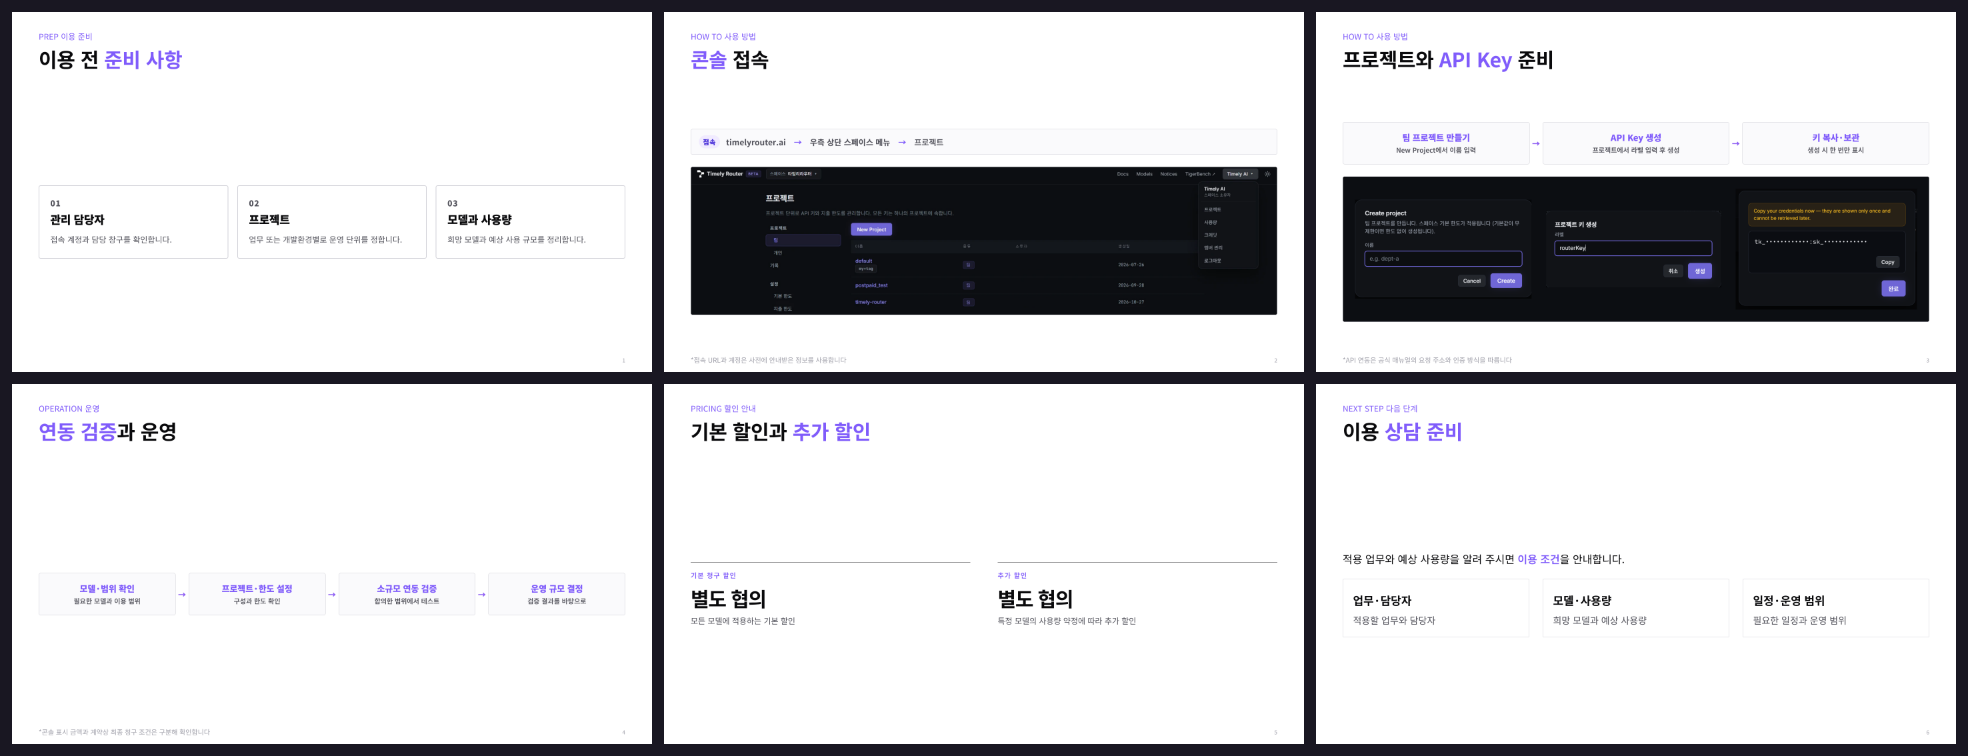
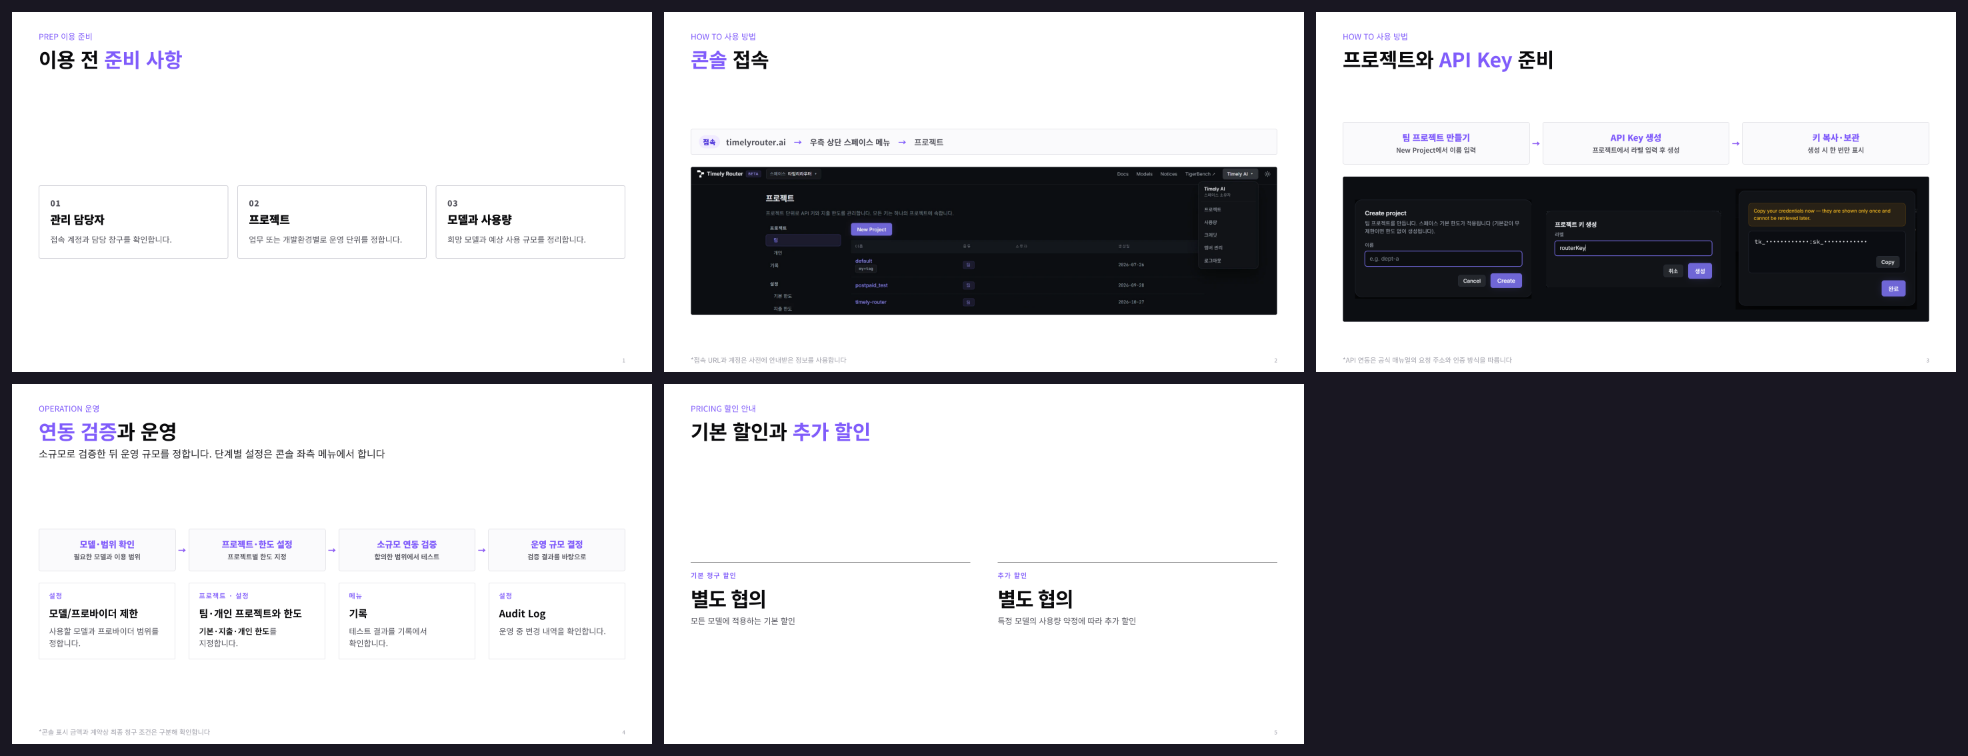
Drop consultation slide; enrich ops slide with console menu mapping
Claude-Session: https://claude.ai/code/session_011MYQVH7VdXypSLypRUhG78

diff --git a/decks/timely-router-sk/deck.purple.html b/decks/timely-router-sk/deck.purple.html
@@ -568,17 +568,24 @@ body { font-family: var(--deck-font); -webkit-font-smoothing: antialiased; }
 </div>
 </section>
 
-<!-- 원본 05 · 연동 검증과 운영 -->
+<!-- 원본 05 · 연동 검증과 운영 (콘솔 메뉴로 보강) -->
 <section>
 <div class="slide body">
   <div class="eyebrow">OPERATION 운영</div>
   <h2 class="title"><span class="hl">연동 검증</span>과 운영</h2>
+  <div class="sub">소규모로 검증한 뒤 운영 규모를 정합니다. 단계별 설정은 콘솔 좌측 메뉴에서 합니다</div>
   <div class="well">
     <div class="pipeline">
       <div class="step"><b>모델·범위 확인</b><span>필요한 모델과 이용 범위</span></div><span class="arrow">→</span>
-      <div class="step"><b>프로젝트·한도 설정</b><span>구성과 한도 확인</span></div><span class="arrow">→</span>
+      <div class="step"><b>프로젝트·한도 설정</b><span>프로젝트별 한도 지정</span></div><span class="arrow">→</span>
       <div class="step"><b>소규모 연동 검증</b><span>합의한 범위에서 테스트</span></div><span class="arrow">→</span>
       <div class="step"><b>운영 규모 결정</b><span>검증 결과를 바탕으로</span></div>
+    </div>
+    <div class="cards four">
+      <div class="card"><div class="kicker">설정</div><h4>모델/프로바이더 제한</h4><p>사용할 모델과 프로바이더 범위를 정합니다.</p></div>
+      <div class="card"><div class="kicker">프로젝트 · 설정</div><h4>팀·개인 프로젝트와 한도</h4><p><b>기본·지출·개인 한도</b>를 지정합니다.</p></div>
+      <div class="card"><div class="kicker">메뉴</div><h4>기록</h4><p>테스트 결과를 기록에서 확인합니다.</p></div>
+      <div class="card"><div class="kicker">설정</div><h4>Audit Log</h4><p>운영 중 변경 내역을 확인합니다.</p></div>
     </div>
   </div>
   <div class="foot">*콘솔 표시 금액과 계약상 최종 청구 조건은 구분해 확인합니다</div>
@@ -595,23 +602,6 @@ body { font-family: var(--deck-font); -webkit-font-smoothing: antialiased; }
     <div class="stat-tiles two">
       <div class="stat-tile"><div class="label">기본 청구 할인</div><div class="value">별도 협의</div><p>모든 모델에 적용하는 기본 할인</p></div>
       <div class="stat-tile"><div class="label">추가 할인</div><div class="value">별도 협의</div><p>특정 모델의 사용량 약정에 따라 추가 할인</p></div>
-    </div>
-  </div>
-  <div class="page"></div>
-</div>
-</section>
-
-<!-- 원본 07 · 이용 상담 준비 -->
-<section>
-<div class="slide body">
-  <div class="eyebrow">NEXT STEP 다음 단계</div>
-  <h2 class="title">이용 <span class="hl">상담 준비</span></h2>
-  <div class="well">
-    <p class="lead">적용 업무와 예상 사용량을 알려 주시면 <b>이용 조건</b>을 안내합니다.</p>
-    <div class="cards">
-      <div class="card"><h4>업무·담당자</h4><p>적용할 업무와 담당자</p></div>
-      <div class="card"><h4>모델·사용량</h4><p>희망 모델과 예상 사용량</p></div>
-      <div class="card"><h4>일정·운영 범위</h4><p>필요한 일정과 운영 범위</p></div>
     </div>
   </div>
   <div class="page"></div>

diff --git a/decks/timely-router-sk/deck.html b/decks/timely-router-sk/deck.html
@@ -57,17 +57,24 @@
 </div>
 </section>
 
-<!-- 원본 05 · 연동 검증과 운영 -->
+<!-- 원본 05 · 연동 검증과 운영 (콘솔 메뉴로 보강) -->
 <section>
 <div class="slide body">
   <div class="eyebrow">OPERATION 운영</div>
   <h2 class="title"><span class="hl">연동 검증</span>과 운영</h2>
+  <div class="sub">소규모로 검증한 뒤 운영 규모를 정합니다. 단계별 설정은 콘솔 좌측 메뉴에서 합니다</div>
   <div class="well">
     <div class="pipeline">
       <div class="step"><b>모델·범위 확인</b><span>필요한 모델과 이용 범위</span></div><span class="arrow">→</span>
-      <div class="step"><b>프로젝트·한도 설정</b><span>구성과 한도 확인</span></div><span class="arrow">→</span>
+      <div class="step"><b>프로젝트·한도 설정</b><span>프로젝트별 한도 지정</span></div><span class="arrow">→</span>
       <div class="step"><b>소규모 연동 검증</b><span>합의한 범위에서 테스트</span></div><span class="arrow">→</span>
       <div class="step"><b>운영 규모 결정</b><span>검증 결과를 바탕으로</span></div>
+    </div>
+    <div class="cards four">
+      <div class="card"><div class="kicker">설정</div><h4>모델/프로바이더 제한</h4><p>사용할 모델과 프로바이더 범위를 정합니다.</p></div>
+      <div class="card"><div class="kicker">프로젝트 · 설정</div><h4>팀·개인 프로젝트와 한도</h4><p><b>기본·지출·개인 한도</b>를 지정합니다.</p></div>
+      <div class="card"><div class="kicker">메뉴</div><h4>기록</h4><p>테스트 결과를 기록에서 확인합니다.</p></div>
+      <div class="card"><div class="kicker">설정</div><h4>Audit Log</h4><p>운영 중 변경 내역을 확인합니다.</p></div>
     </div>
   </div>
   <div class="foot">*콘솔 표시 금액과 계약상 최종 청구 조건은 구분해 확인합니다</div>
@@ -84,23 +91,6 @@
     <div class="stat-tiles two">
       <div class="stat-tile"><div class="label">기본 청구 할인</div><div class="value">별도 협의</div><p>모든 모델에 적용하는 기본 할인</p></div>
       <div class="stat-tile"><div class="label">추가 할인</div><div class="value">별도 협의</div><p>특정 모델의 사용량 약정에 따라 추가 할인</p></div>
-    </div>
-  </div>
-  <div class="page"></div>
-</div>
-</section>
-
-<!-- 원본 07 · 이용 상담 준비 -->
-<section>
-<div class="slide body">
-  <div class="eyebrow">NEXT STEP 다음 단계</div>
-  <h2 class="title">이용 <span class="hl">상담 준비</span></h2>
-  <div class="well">
-    <p class="lead">적용 업무와 예상 사용량을 알려 주시면 <b>이용 조건</b>을 안내합니다.</p>
-    <div class="cards">
-      <div class="card"><h4>업무·담당자</h4><p>적용할 업무와 담당자</p></div>
-      <div class="card"><h4>모델·사용량</h4><p>희망 모델과 예상 사용량</p></div>
-      <div class="card"><h4>일정·운영 범위</h4><p>필요한 일정과 운영 범위</p></div>
     </div>
   </div>
   <div class="page"></div>

diff --git a/decks/timely-router-sk/notes.md b/decks/timely-router-sk/notes.md
@@ -26,6 +26,7 @@
 - 출처: 2026-10-29 고객 안내 메일(Gmail 1a187a928b7123e5)
 
 ## 4 (원본 5) 연동 검증과 운영
+- 단계별 설정 위치(콘솔 좌측 메뉴): 모델/프로바이더 제한 → 팀·개인 프로젝트와 기본·지출·개인 한도 → 기록 → Audit Log. 각 메뉴의 세부 동작은 실제 화면에서 확인한 뒤 설명합니다.
 - 권장 운영 순서입니다. 테스트는 담당자와 합의한 범위에서 하며, 무상 테스트나 자동 결제를 약속하지 않습니다.
 - 한도 설정은 실제 제공 범위에서 확인합니다. 알림, 하드 차단, 실시간 청구 동기화 같은 미확인 기능은 보장하지 않습니다.
 - 공개 모델 단가와 고객별 계약 할인·정산 조건은 구분해 안내합니다.
@@ -37,6 +38,6 @@
 - 대상 모델, 시행일, 사용량 약정, 정산 조건, 최소 사용액, 통화, 약정기간, VAT, 결제기한은 확정되지 않았습니다.
 - 출처: https://timely-j0t4248.slack.com/archives/C0ASPMTTQAD/p1793004984680539?thread_ts=1792749553.280019&cid=C0ASPMTTQAD
 
-## 6 (원본 7) 이용 상담 준비
+## (삭제됨) 원본 7 이용 상담 준비 — 사용자 요청으로 덱에서 제외, 참고용으로만 보관
 - 발표 후 적용 업무, 담당자, 모델, 예상 사용량, 일정과 운영 범위를 확인합니다. 그다음 프로젝트·키 준비와 연동 검증 순서로 진행합니다.
 - 담당 창구는 승인된 연락처로 안내합니다. 무상 PoC, 무약정, 즉시 개통, 특정 서비스 수준, SK 전용 혜택은 약속하지 않습니다.
